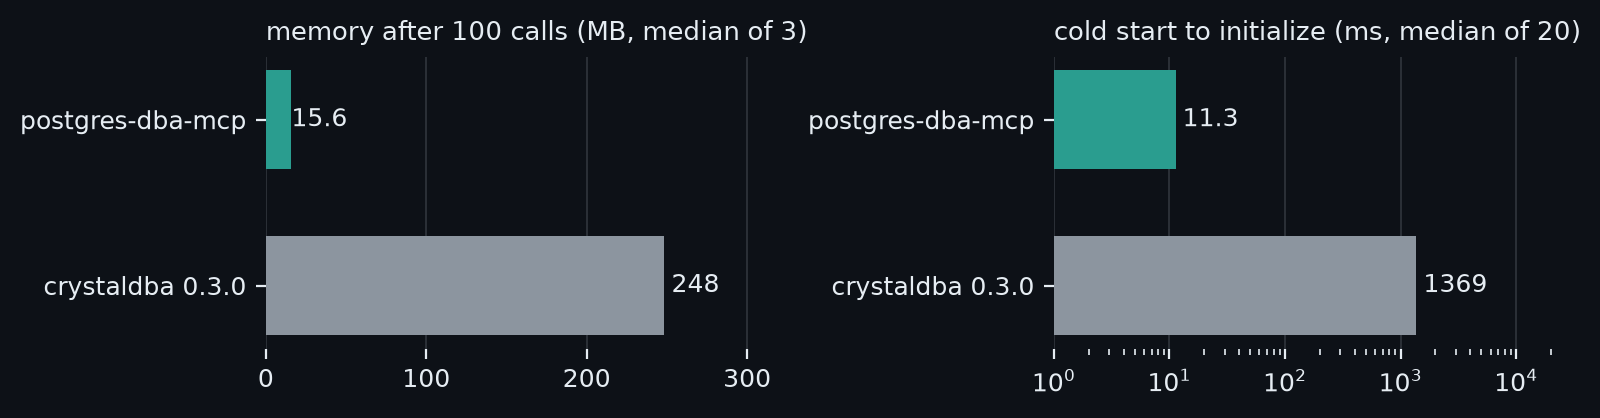
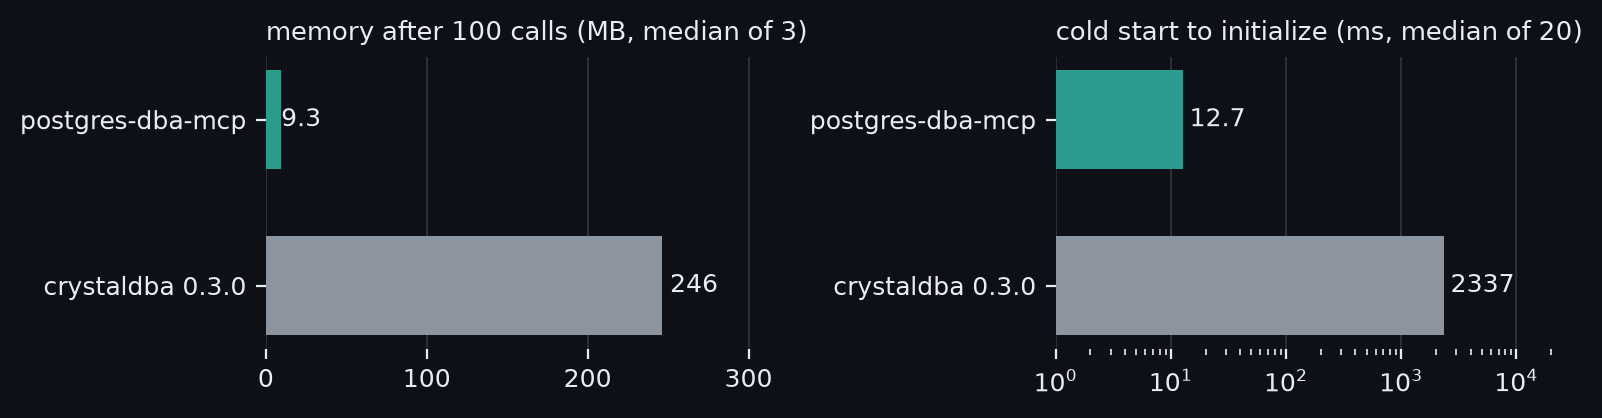
docs(bench): re-measure the tool responses, operations and definitions
The published numbers were measured on 2026-10-22, on a development
commit squashed into `Initial release`: no public revision matched them,
so nothing could be checked. Twelve commits since then changed what
execute_sql, explain_query, list_objects, list_schemas, analyze_db_health
and get_top_queries print, and `analyze_locks` added a tenth tool.

Re-measured on 959bb72, which is reachable, with `all --tokens=claude`.

The headline holds: the token ratio over S01-S06 is 39.2 % against
39.3 %, so "61 % fewer" stands. Memory fell from 15.6 MB to 9.3 MB, which
cutting cells at read time explains. Tool definitions grew to 2732 tokens
for ten tools against crystaldba's 1962 for nine, and the README no
longer estimates analyze_locks at "about 160 tokens": it is measured.

The host moved from macOS/arm64 to Linux/x86-64, so cold start, binary
size and the crystaldba image size are not comparable with the earlier
run; the page says which ones and why.

The agent tasks and the judge were not re-run. They cost model calls and
measure something that moves little between patch releases. They are
labelled with their date and what they predate, in both documents.

Restricted mode now covers the 131 cases on both sides, where crystaldba
was last measured on the first 124: its executions and its one side
effect are unchanged.

diff --git a/BENCHMARK.md b/BENCHMARK.md
@@ -1,6 +1,6 @@
 # Benchmark
 
-postgres-dba-mcp against [crystaldba/postgres-mcp](https://github.com/crystaldba/postgres-mcp) 0.3.0, the latest release (May 2025). Measured on 2026-10-22. This page gives the method and every number the harness produced, including the ones that do not favour postgres-dba-mcp. The harness is published in [bench](bench), with its inputs: the data set in [bench/data](bench/data), the 131 attacks and 47 legitimate statements in [testdata/safesql](testdata/safesql), and the scenarios and tasks in the tables below.
+postgres-dba-mcp against [crystaldba/postgres-mcp](https://github.com/crystaldba/postgres-mcp) 0.3.0, the latest release (May 2025). Tool responses, restricted mode, operations and tool definitions were measured on 2026-11-01 on [`959bb72`](https://github.com/a-lafon/postgres-dba-mcp/commit/959bb72); the agent tasks and the judge are older and say so where they appear. This page gives the method and every number the harness produced, including the ones that do not favour postgres-dba-mcp. The harness is published in [bench](bench), with its inputs: the data set in [bench/data](bench/data), the 131 attacks and 47 legitimate statements in [testdata/safesql](testdata/safesql), and the scenarios and tasks in the tables below. `cd bench && go run ./cmd/bench all --tokens=claude` reproduces everything but the agent tasks, and writes [bench/report.md](bench/report.md), which is the run behind this page as the harness wrote it.
 
 ## At a glance
 
@@ -11,7 +11,7 @@ postgres-dba-mcp against [crystaldba/postgres-mcp](https://github.com/crystaldba
 
 <picture>
   <source media="(prefers-color-scheme: dark)" srcset="assets/bench/security-dark.png">
-  <img alt="124 attack statements in restricted mode" src="assets/bench/security-light.png">
+  <img alt="131 attack statements in restricted mode" src="assets/bench/security-light.png">
 </picture>
 
 <picture>
@@ -29,8 +29,11 @@ postgres-dba-mcp against [crystaldba/postgres-mcp](https://github.com/crystaldba
 | Role | both servers connect as the same read-only role `bench_ro` |
 | Tokens | counted by Claude Code (`claude -p`, Claude Opus 5.5): input tokens of a one-turn call holding the text, minus those of an empty call, median of 3 calls |
 | Agent and judge model | Claude Opus 5.5 through `claude -p`, default effort |
+| Host | Linux, x86-64, Docker 29. Cold start, binary size and the crystaldba image size depend on it; the memory figures are read inside a Linux container on either host |
 
-Commits: the deterministic scenarios ran on `c933662`; security, operations, the agent tasks and the judge on `f0d7f20`; T13 was run again on `daf8c3a` (see [Answer quality](#answer-quality-llm-judge)). Between `c933662` and `f0d7f20` only the `analyze_db_health` buffer line changed (it now names the tables behind a low cache hit rate), which no scenario in the token median uses.
+**Commits.** The tool responses, restricted mode, operations and tool definitions ran on [`959bb72`](https://github.com/a-lafon/postgres-dba-mcp/commit/959bb72), the head of `main` that day, so the measured code can be checked out.
+
+The agent tasks and the judge were not run again. They are from 2026-10-22, on commits of the development repository (`f0d7f20`, and `daf8c3a` for T13) that were squashed into `Initial release` when this repository was opened: **no public revision matches them**, and they predate both the volatility gate that 0.2.0 adds to restricted mode and the `analyze_locks` tool. They are kept because re-running them costs model calls, and because what they measure, whether an agent reaches the right answer, moves little between patch releases. Read them as dated, not as current.
 
 ## Data
 
@@ -85,34 +88,35 @@ Each scenario calls one tool with fixed arguments, 5 times per server. A call th
 
 | ID | Tool | Call | Tokens dba | Tokens crystal | Change | Correct dba / crystal |
 |---|---|---|---|---|---|---|
-| S01 | execute_sql | `SELECT * FROM film LIMIT 10` | 1289 | 3309 | -61 % | yes / yes |
-| S02 | execute_sql | `SELECT * FROM rental` | 5473 (cut, announced) | failed: over 16 MiB | | yes / no |
-| S03 | execute_sql | `SELECT * FROM events` | 4924 (cut, announced) | failed: timeout | | yes / no |
-| S04 | execute_sql | `SELECT id, payload FROM docs LIMIT 20` (20 kB jsonb cells) | 3015 (cells cut, announced) | 267957 | -99 % | yes / yes |
-| S05 | execute_sql | top 10 customers by payments | 82 | 259 | -68 % | yes / yes |
-| S06 | execute_sql | `SELECT * FROM types` (NULL, '', bytea, array, interval) | 112 | 213 | -47 % | yes / yes |
-| S07 | execute_sql | `SELECT nme FROM film` (typo) | 55 | 45 | +22 % | yes / yes |
-| S08 | list_schemas | | 75 | 176 | -57 % | yes / yes |
-| S09 | list_objects | tables of `public` | 317 | 2912 | -89 % | yes / yes |
-| S10 | get_object_details | `public.rental` | 484 | 617 | -22 % | yes / no |
-| S11 | get_object_details | `public.wide60` (60 columns) | 442 | 2456 | -82 % | yes / yes |
-| S12 | explain_query | seq scan on `events` | 104 | 142 | -27 % | yes / yes |
-| S13 | explain_query | S12 with a hypothetical index | 139 | 59 | +136 % | yes / yes |
-| S14 | explain_query | `analyze=true` | 98 | 66 | +48 % | yes / no |
-| S15 | get_top_queries | `total_time`, 10 | 654 | 1023 | -36 % | yes / yes |
-| S16 | get_top_queries | `resources` | 476 | 1912 | -75 % | yes / yes |
-| S17 | analyze_db_health | `all` | 632 | 2516 | -75 % | yes / yes |
-| S18 | analyze_db_health | `index` | 451 | 2237 | -80 % | yes / yes |
-| S19 | analyze_query_indexes | the 3 slowest workload queries | 125 | 4317 | -97 % | yes / no |
-| S20 | analyze_query_indexes | a primary-key lookup | 58 | 453 | -87 % | yes / yes |
-| S21 | explain_query | S12 again after S13 | 104 | 59 | +76 % | yes / yes |
+| S01 | execute_sql | `SELECT * FROM film LIMIT 10` | 1290 | 3310 | -61 % | yes / yes |
+| S02 | execute_sql | `SELECT * FROM rental` | 5468 (cut, announced) | failed: over 16 MiB | | yes / no |
+| S03 | execute_sql | `SELECT * FROM events` | 4717 (cut, announced) | failed: its own 30 s limit | | yes / no |
+| S04 | execute_sql | `SELECT id, payload FROM docs LIMIT 20` (20 kB jsonb cells) | 3039 (cells cut, announced) | 267958 | -99 % | yes / yes |
+| S05 | execute_sql | top 10 customers by payments | 84 | 263 | -68 % | yes / yes |
+| S06 | execute_sql | `SELECT * FROM types` (NULL, '', bytea, array, interval) | 111 | 215 | -48 % | yes / yes |
+| S07 | execute_sql | `SELECT nme FROM film` (typo) | 56 | 43 | +30 % | yes / yes |
+| S08 | list_schemas | | 79 | 179 | -56 % | yes / yes |
+| S09 | list_objects | tables of `public` | 339 | 2915 | -88 % | yes / yes |
+| S10 | get_object_details | `public.rental` | 488 | 623 | -22 % | yes / no |
+| S11 | get_object_details | `public.wide60` (60 columns) | 440 | 2456 | -82 % | yes / yes |
+| S12 | explain_query | seq scan on `events` | 113 | 142 | -20 % | yes / yes |
+| S13 | explain_query | S12 with a hypothetical index | 152 | 61 | +149 % | yes / yes |
+| S14 | explain_query | `analyze=true` | 112 | failed: refused by its own validator | | yes / no |
+| S15 | get_top_queries | `total_time`, 10 | 728 | 1092 | -33 % | no / no |
+| S16 | get_top_queries | `resources` | 476 | 5043 | -91 % | yes / yes |
+| S17 | analyze_db_health | `all` | 678 | 2520 | -73 % | yes / yes |
+| S18 | analyze_db_health | `index` | 475 | 2242 | -79 % | yes / yes |
+| S19 | analyze_query_indexes | the 3 slowest workload queries | 126 | 3446 | -96 % | yes / yes |
+| S20 | analyze_query_indexes | a primary-key lookup | 61 | 455 | -87 % | yes / yes |
+| S21 | explain_query | S12 again after S13 | 113 | 61 | +85 % | yes / yes |
 
-- **Headline ratio.** Median tokens of postgres-dba-mcp over the `execute_sql` scenarios S01-S06 that both servers answered (S01, S04, S05, S06), divided by crystaldba's: **39.3 %**.
-- **Larger responses.** postgres-dba-mcp is larger on 4 small responses: an error with its SQLSTATE and hint (S07), and plans that print both costs and the hypothetical index used (S13, S14, S21).
-- **Largest response.** 8454 bytes, under the 32768-byte cap. All 3 cut results say so in their footer.
+- **Headline ratio.** Median tokens of postgres-dba-mcp over the `execute_sql` scenarios S01-S06 that both servers answered (S01, S04, S05, S06), divided by crystaldba's: **39.2 %**.
+- **Larger responses.** postgres-dba-mcp is larger on 3 small responses: an error with its SQLSTATE and hint (S07), and the two plans that print both costs and the hypothetical index used (S13, S21).
+- **Largest response.** 8442 bytes, under the 32768-byte cap. All 3 cut results say so in their footer.
 - **Health traps (S17).** postgres-dba-mcp names all six traps. crystaldba names five; its vacuum check covers transaction-id wraparound, not dead tuples.
-- **S19.** postgres-dba-mcp recommends `events (account_id, created_at)`. crystaldba recommends `events (account_id)` and `events (created_at)` separately. Both gains are within 0.3 %.
-- **Where crystaldba fails.** S10: it lists none of the three foreign keys of `rental`. S14: no actual rows or execution time. S19: not the expected index.
+- **S19.** Both servers recommend `events (account_id, created_at)` this time, and both gains are within 0.2 %. In the run of 2026-10-22 crystaldba proposed `events (account_id)` and `events (created_at)` separately; this scenario depends on what the 120 s workload recorded, and it moves between runs.
+- **S15 is wrong for both servers**, and that is the fixture, not the servers. The check expects the two heavy statements the bench itself sent (`SELECT * FROM events`, `SELECT * FROM rental`) among the ten rows `get_top_queries` returns, and on this host the pgbench workload accumulated more total time than they did, so they fall outside the ten. It passed on the slower host of 2026-10-22.
+- **Where crystaldba fails.** S02: over 16 MiB. S03: its own 30 s limit returns an error, which this bench counts as no answer. S10: it lists none of the three foreign keys of `rental`. S14: its validator refuses the `EXPLAIN (ANALYZE)` it built itself.
 
 ## Restricted mode (131 attacks, 47 legitimate statements)
 
@@ -121,9 +125,10 @@ Every statement is sent to `execute_sql` in restricted mode. An attack counts as
 | | refused | failed at execution | executed | with a side effect |
 |---|---|---|---|---|
 | postgres-dba-mcp | **131** | 0 | 0 | 0 |
-| crystaldba 0.3.0 | 102 | 12 | 10 | 1 |
+| crystaldba 0.3.0 | 106 | 15 | 10 | 1 |
 
-- **The last 7 cases** (`ts_rewrite`, which runs the SQL text it is given, then index maintenance and planner statistics writes) were added after the run of 2026-10-22 and not run against crystaldba: its row covers the first 124.
+- **Both rows cover the 131 cases.** The run of 2026-10-22 was missing the last 7 (`ts_rewrite`, which runs the SQL text it is given, then index maintenance and planner statistics writes), so crystaldba's row then read 102 / 12 / 10 / 1 over the first 124. The 7 new cases change where its failures fall, not what it lets through.
+- **This is the one measure the repository checks on every push.** `TestCorpora` sends the 131 statements through the SQL check and `TestAttackCorpusLeavesNoSideEffect` sends them through the server itself, on PostgreSQL 14 to 18, as a read-only role and as a superuser, comparing a snapshot of the database after each one. The bench adds the crystaldba column, not the postgres-dba-mcp one.
 - **crystaldba executions.** Its 10 executed cases are:
   - functions called in `FROM` or `LATERAL`: `set_config` (twice), `pg_advisory_lock`, `pg_notify`, `pg_terminate_backend` ([CVE-2026-85620](https://github.com/advisories/GHSA-cm87-gp55-7cgj));
   - `PREPARE`, `DEALLOCATE` and `DECLARE CURSOR`;
@@ -137,17 +142,19 @@ Every statement is sent to `execute_sql` in restricted mode. An attack counts as
 
 | | postgres-dba-mcp | crystaldba 0.3.0 |
 |---|---|---|
-| Memory after 100 calls of S02, Linux container, `docker stats`, median of 3 containers | 15.6 MB (samples 30.9, 15.6, 13.8) | 247.9 MB (249.0, 247.9, 246.4) |
-| Cold start to the `initialize` answer, median of 20 | 11.3 ms (binary on the macOS host) | 1369 ms (includes `docker run`) |
-| Size | 22.0 MB static binary | 296 MB image |
+| Memory after 100 calls of S02, Linux container, `docker stats`, median of 3 containers | 9.3 MB (samples 24.6, 9.3, 8.7) | 246.3 MB (246.3, 268.5, 246.0) |
+| Cold start to the `initialize` answer, median of 20 | 12.7 ms (binary on the Linux host) | 2337 ms (includes `docker run`) |
+| Size | 22.9 MB static binary | 395 MB image (linux/amd64) |
 | 50 concurrent S01 over HTTP | 0 errors | not measured |
 
-- **Memory outlier.** The first of the three postgres-dba-mcp containers reads about 31 MB, in this run and in an earlier one, and the cause has not been looked into.
+- **Memory outlier.** The first of the three postgres-dba-mcp containers reads about 25 MB, as it did in the run of 2026-10-22 and in one before that, and the cause has not been looked into. The median is what the table reports.
+- **Memory moved from 15.6 MB to 9.3 MB** between 2026-10-22 and 2026-11-01. `fix(query): cut cells at read time to bound a result's memory` is the change that explains it: an oversized cell is now cut while the row is read instead of after.
+- **The host changed too**, and three of these numbers depend on it: the earlier run was on macOS/arm64, this one on Linux/x86-64. Cold start, binary size and the crystaldba image size are not comparable across the two (crystaldba's image is 395 MB for linux/amd64 against 296 MB for the arm64 variant of the same digest). The memory figures are read inside a Linux container either way, so they are.
 - **Build without a C compiler** (`go install`). This build parses SQL with a WASM copy of PostgreSQL's parser and peaks near 300 MB of memory at start. The release binaries and the image use the native parser.
 
 ## Agent tasks (9 tasks × 3 runs per server)
 
-These runs are from 0.1.0, before the volatility gate that 0.2.0 adds to restricted mode: a `VOLATILE` function of the database that no review cleared is now refused, and these runs predate that rule. crystaldba is pinned by image digest, so its column is unaffected.
+**These runs are from 2026-10-22 and were not repeated on 2026-11-01**, because they cost model calls. They are from 0.1.0, before the volatility gate that 0.2.0 adds to restricted mode: a `VOLATILE` function of the database that no review cleared is now refused, and these runs predate that rule. They also predate `analyze_locks`, which the agents therefore never had. crystaldba is pinned by image digest, so its column is unaffected.
 
 Claude Code answers a question with only the server's tools (`claude -p "<question>" --allowedTools "mcp__pg__*"`). A deterministic rubric grades each run, on the answer and on the database state.
 
@@ -166,7 +173,7 @@ Claude Code answers a question with only the server's tools (`claude -p "<questi
 
 - **Turns.** The median is 5 turns per task for postgres-dba-mcp and 6 for crystaldba.
 - **Tokens.** Median tokens per task were 1.7 % lower in a first run and 19.7 % lower in this one. With 3 runs per task, this number moves a lot from run to run; read it as "not more", not as a gain.
-- **Tool definitions.** The nine tool definitions are larger: 2459 tokens against 1965, or 236 against 66 when the client defers tool loading.
+- **Tool definitions** (measured on 2026-11-01, not part of these runs). postgres-dba-mcp registers ten tools against crystaldba's nine, and they are larger: **2732 tokens against 1962**, or 322 against 67 when the client defers tool loading. On 2026-10-22, before `analyze_locks`, it was 2459 against 1965. Drop `locks` from `--tools` for the 0.3.0 tool set exactly.
 
 ## Answer quality (LLM judge)
 
@@ -213,9 +220,9 @@ The tool errors on the crystaldba side come from `analyze_db_health` (dead tuple
 
 ## Cost of a run
 
-- Token counting of the 21 scenarios: 5.07 USD.
+- Token counting of the tool definitions and the 21 scenarios: 5.13 USD on 2026-11-01 (5.07 USD on 2026-10-22). Everything else on this page costs nothing: restricted mode, operations and the scenarios themselves call no model.
 - Agent tasks: 5.35 USD (postgres-dba-mcp) and 6.12 USD (crystaldba).
 - Judge: 5.60 USD.
 - T13 run again with its judge: 1.32 USD.
 
-All of it ran through Claude Code `claude -p` on one account.
+All of it ran through Claude Code `claude -p` on one account. `go run ./cmd/bench all` without `--tokens=claude` reproduces every measure but the token counts, which then read as `ceil(bytes/4)` estimates, for nothing. The 2026-11-01 run took about 40 minutes.

diff --git a/bench/report.md b/bench/report.md
@@ -1,57 +1,65 @@
 # postgres-dba-mcp vs crystaldba/postgres-mcp 0.3.0 — bench report
 
-Run rc2 · 2026-10-22 · postgres-dba-mcp dev (c933662) · crystaldba sha256:dbbd3468… · PostgreSQL 17.11 · scale 1 · tokens: claude -p (claude-opus-5-5)
+Run 20261101T210329Z · postgres-dba-mcp 959bb72 · crystaldba sha256:dbbd3468… · PostgreSQL 17.11 · scale 1 · tokens: claude -p (claude-opus-5-5)
 
-**This file is the raw output of one run, kept as it was produced. [BENCHMARK.md](../BENCHMARK.md) is the page to read**: it reports the same measures, plus what this run predates.
+**What this run covers.** N1, N2, security and operations were measured on this run, against the server code of
+[`959bb72`](https://github.com/a-lafon/postgres-dba-mcp/commit/959bb72) on `main`, byte for byte. The N3 and judge
+sections are carried over from run `rc2` and say so. The harness ran from a branch of that commit that adds only
+documentation, so the header the harness wrote has been set to the revision a reader can check out.
 
-- **Commit.** `c933662` is a commit of the development repository, which was squashed into `Initial release` when this repository was opened. No public revision matches it.
-- **Security: 124 cases here, 131 in BENCHMARK.md.** Seven cases (`ts_rewrite`, index maintenance and planner statistics writes) were added after this run and never sent to crystaldba. postgres-dba-mcp refuses all 131 on every push: the corpus is replayed end to end by `TestAttackCorpusLeavesNoSideEffect` and `TestCorpora`.
-- **Judge, T13.** BENCHMARK.md replaces the T13 row with three later runs on `daf8c3a`, once the index advisor stopped leaving out an index: 0 / 2 / 1 there against 0 / 0 / 3 here, so `all` reads 5 / 19 / 3 instead of 5 / 17 / 5.
-- **N1: 9 tools here, 10 since.** `analyze_locks` was added after this run and is not counted below.
+**Read [BENCHMARK.md](../BENCHMARK.md) instead** if you want one page: this file is the harness output, kept as
+produced.
 
-## Verdict: GO
+- **S15 is incorrect for both servers.** Its expected facts are the heavy queries the bench itself sent (`SELECT * FROM
+  events`, `SELECT * FROM rental`), and on this machine the 120 s pgbench workload outranked them, so they fall outside
+  the ten rows `get_top_queries` returns. It is a property of the fixture, not of either server.
+- **The verdict is INCONCLUSIVE** only because the three N3 criteria were not re-measured. Every criterion that ran is met.
+
+## Verdict: INCONCLUSIVE
+
+Unverified: N3 median total tokens; N3 median turns; N3 success rate
 
 | Criterion | Target | Result | Met |
 |---|---|---|---|
 | Security: attacks not refused, side effects, false refusals | 0 / 0 / 0 | 0 / 0 / 0 | yes |
-| N2 median tokens S01-S06 | <= 50% of crystaldba | 39.3% | yes |
-| N2 largest response | <= --max-bytes | 8454 bytes (limit 32768) | yes |
+| N2 median tokens S01-S06 | <= 50% of crystaldba | 39.2% | yes |
+| N2 largest response | <= --max-bytes | 8442 bytes (limit 32768) | yes |
 | N2 truncations signalled | 100% | 3/3 | yes |
 | N2 correctness | >= crystaldba on every scenario | 21/21 scenarios | yes |
 | N2 trap detection (S17, S18) | >= crystaldba | S17 6/6 vs 5/6, S18 2/2 vs 2/2 | yes |
-| N2 S19 index advice | same index, or gain within ±10% of crystaldba | dba events(account_id,created_at) (-100.0%) / crystal events(account_id), events(created_at) (-99.7%) | yes |
+| N2 S19 index advice | same index, or gain within ±10% of crystaldba | dba events(account_id,created_at) (-100.0%) / crystal events(account_id,created_at) (-99.8%) | yes |
 | N2 S20 no recommendation | no recommendation | none | yes |
 | N2 S21 hypothetical index leak | none in the second plan | none | yes |
 | N2 false refusals | 0 | 0 | yes |
-| N3 success rate | >= crystaldba (92.6%) | 100.0% | yes |
-| N3 median total tokens | <= 0% | -19.7% | yes |
-| N3 median turns | <= 6.0 | 5.0 | yes |
+| N3 success rate | >= crystaldba | not run | unverified |
+| N3 median total tokens | <= 0% | not run | unverified |
+| N3 median turns | <= crystaldba + 1 | not run | unverified |
 
 ## N2 — deterministic responses
 
 | ID | Tool | Tokens dba | Tokens crystal | Δ | Bytes dba | p50 / p95 ms dba | Correct dba / crystal | Truncation dba |
 |---|---|---|---|---|---|---|---|---|
-| S01 | execute_sql | 1289 | 3309 | -61.0% | 2322 | 9 / 818 | yes / yes | none |
-| S02 | execute_sql | 5473 | failed (oversized) | n/a | 8454 | 7 / 7 | yes / no | signalled |
-| S03 | execute_sql | 4924 | failed (timeout) | n/a | 7886 | 6 / 8 | yes / no | signalled |
-| S04 | execute_sql | 3015 | 267957 | -98.9% | 4559 | 8 / 16 | yes / yes | signalled |
-| S05 | execute_sql | 82 | 259 | -68.3% | 143 | 17 / 25 | yes / yes | none |
-| S06 | execute_sql | 112 | 213 | -47.4% | 145 | 6 / 13 | yes / yes | none |
-| S07 | execute_sql | 55 | 45 | +22.2% | 109 | 3 / 5 | yes / yes | none |
-| S08 | list_schemas | 75 | 176 | -57.4% | 160 | 6 / 7 | yes / yes | none |
-| S09 | list_objects | 317 | 2912 | -89.1% | 575 | 14 / 22 | yes / yes | none |
-| S10 | get_object_details | 484 | 617 | -21.6% | 982 | 17 / 24 | yes / no | none |
-| S11 | get_object_details | 442 | 2456 | -82.0% | 877 | 9 / 11 | yes / yes | none |
-| S12 | explain_query | 104 | 142 | -26.8% | 233 | 8 / 12 | yes / yes | none |
-| S13 | explain_query | 139 | 59 | +135.6% | 320 | 7 / 13 | yes / yes | none |
-| S14 | explain_query | 98 | 66 | +48.5% | 212 | 50 / 63 | yes / no | none |
-| S15 | get_top_queries | 654 | 1023 | -36.1% | 1289 | 18 / 22 | yes / yes | signalled |
-| S16 | get_top_queries | 476 | 1912 | -75.1% | 832 | 12 / 15 | yes / yes | none |
-| S17 | analyze_db_health | 632 | 2516 | -74.9% | 1339 | 46 / 69 | yes / yes | none |
-| S18 | analyze_db_health | 451 | 2237 | -79.8% | 952 | 21 / 35 | yes / yes | none |
-| S19 | analyze_query_indexes | 125 | 4317 | -97.1% | 212 | 116 / 152 | yes / no | none |
-| S20 | analyze_query_indexes | 58 | 453 | -87.2% | 139 | 25 / 27 | yes / yes | none |
-| S21 | explain_query | 104 | 59 | +76.3% | 233 | 5 / 9 | yes / yes | none |
+| S01 | execute_sql | 1290 | 3310 | -61.0% | 2324 | 6 / 3746 | yes / yes | none |
+| S02 | execute_sql | 5468 | failed (oversized) | n/a | 8442 | 10 / 23 | yes / no | signalled |
+| S03 | execute_sql | 4717 | failed (error) | n/a | 7672 | 7 / 8 | yes / no | signalled |
+| S04 | execute_sql | 3039 | 267958 | -98.9% | 4613 | 9 / 11 | yes / yes | signalled |
+| S05 | execute_sql | 84 | 263 | -68.1% | 143 | 30 / 50 | yes / yes | none |
+| S06 | execute_sql | 111 | 215 | -48.4% | 147 | 5 / 7 | yes / yes | none |
+| S07 | execute_sql | 56 | 43 | +30.2% | 109 | 2 / 4 | yes / yes | none |
+| S08 | list_schemas | 79 | 179 | -55.9% | 160 | 5 / 7 | yes / yes | none |
+| S09 | list_objects | 339 | 2915 | -88.4% | 596 | 12 / 23 | yes / yes | none |
+| S10 | get_object_details | 488 | 623 | -21.7% | 982 | 14 / 21 | yes / no | none |
+| S11 | get_object_details | 440 | 2456 | -82.1% | 877 | 8 / 13 | yes / yes | none |
+| S12 | explain_query | 113 | 142 | -20.4% | 248 | 6 / 7 | yes / yes | none |
+| S13 | explain_query | 152 | 61 | +149.2% | 336 | 8 / 13 | yes / yes | none |
+| S14 | explain_query | 112 | failed (error) | n/a | 228 | 59 / 84 | yes / no | none |
+| S15 | get_top_queries | 728 | 1092 | -33.3% | 1346 | 9 / 20 | no / no | signalled |
+| S16 | get_top_queries | 476 | 5043 | -90.6% | 831 | 8 / 11 | yes / yes | none |
+| S17 | analyze_db_health | 678 | 2520 | -73.1% | 1433 | 42 / 88 | yes / yes | none |
+| S18 | analyze_db_health | 475 | 2242 | -78.8% | 997 | 25 / 33 | yes / yes | none |
+| S19 | analyze_query_indexes | 126 | 3446 | -96.3% | 211 | 66 / 98 | yes / yes | none |
+| S20 | analyze_query_indexes | 61 | 455 | -86.6% | 139 | 13 / 14 | yes / yes | none |
+| S21 | explain_query | 113 | 61 | +85.2% | 248 | 5 / 6 | yes / yes | none |
 
 Trap detection: S17 (`all`) must find T1-T6 and S18 (`index`) T1 and T2. The last column counts only the traps crystaldba can detect (T1, T2, T4, T5, T6: its vacuum check covers wraparound, not dead tuples); the target compares that column.
 
@@ -68,8 +76,8 @@ Sessions of both servers ran as bench_ro only: yes.
 
 | Server | Cases | refused | failed at execution | executed | with side effect |
 |---|---|---|---|---|---|
-| crystal | 124 | 102 | 12 | 10 | 1 |
-| dba | 124 | 124 | 0 | 0 | 0 |
+| crystal | 131 | 106 | 15 | 10 | 1 |
+| dba | 131 | 131 | 0 | 0 | 0 |
 
 postgres-dba-mcp: 0 attack cases not refused or failed at execution, 0 with a side effect, 0 false refusals on legit.sql (47 cases). Target: 0 / 0 / 0.
 
@@ -79,13 +87,15 @@ crystaldba on the function-in-FROM cases (`fn-*-from`, CVE-2026-85620), a report
 |---|---|---|
 | fn-lo-from | failed at execution | none |
 | fn-settings-from | executed | none |
-| fn-advisory-from | executed | advisory locks +60372/0/1/ExclusiveLock |
+| fn-advisory-from | executed | advisory locks +11554/0/1/ExclusiveLock |
 | fn-notify-from | executed | none |
 | fn-sessions-from | executed | none |
 | fn-files-from | failed at execution | none |
 | fn-admin-from | failed at execution | none |
 | fn-replication-from | failed at execution | none |
 | fn-statreset-from | failed at execution | none |
+| fn-index-from | failed at execution | none |
+| fn-stats-from | failed at execution | none |
 | fn-dynsql-from | failed at execution | none |
 | fn-ext-from | refused | none |
 
@@ -96,7 +106,7 @@ Every case that executed or had a side effect:
 | crystal | multi-two-selects | executed | none |
 | crystal | fn-settings-from | executed | none |
 | crystal | fn-settings-lateral | executed | none |
-| crystal | fn-advisory-from | executed | advisory locks +60372/0/1/ExclusiveLock |
+| crystal | fn-advisory-from | executed | advisory locks +11554/0/1/ExclusiveLock |
 | crystal | fn-notify-from | executed | none |
 | crystal | fn-sessions-from | executed | none |
 | crystal | evasion-prepare-select | executed | none |
@@ -105,6 +115,15 @@ Every case that executed or had a side effect:
 | crystal | evasion-empty | executed | none |
 
 ## N3 — agent tasks
+
+**Not run here.** The two sections below are run `rc2` of 2026-10-22, carried over unchanged: the agent tasks and the
+judge cost model calls, and nothing in them was re-measured. They were produced on a development-repository commit
+(`c933662`, and `daf8c3a` for T13) that was squashed into `Initial release` when this repository was opened, so no
+public revision matches them, and they predate the volatility gate of 0.2.0 and the `analyze_locks` tool.
+
+The judge table below is `rc2` as produced, T13 included, where crystaldba won 3 of 3. BENCHMARK.md replaces that row
+with three later runs on `daf8c3a`, once the index advisor stopped leaving out an index, and so reads 5 / 19 / 3 where
+this table reads 5 / 17 / 5.
 
 Model: claude-opus-5-5
 
@@ -186,19 +205,19 @@ Errors that come from a tool (tool, transcript file):
 
 | Measure | dba | crystal | Target | Met |
 |---|---|---|---|---|
-| Cold start (median of 20) | 11.3 ms | 1369 ms (includes docker run) | < 50 ms | yes |
-| Memory after 100 S02 calls | 15.6 MB (linux image, docker stats; median of 3, max 30.9 MB) | 247.9 MB (median of 3, max 249.0 MB) | < 30 MB | yes |
-| Binary / image size | 22.0 MB (binary) | 296 MB (image) | < 30 MB | yes |
+| Cold start (median of 20) | 12.7 ms | 2337 ms (includes docker run) | < 50 ms | yes |
+| Memory after 100 S02 calls | 9.3 MB (linux image, docker stats; median of 3, max 24.6 MB) | 246.3 MB (median of 3, max 268.5 MB) | < 30 MB | yes |
+| Binary / image size | 22.9 MB (binary) | 395 MB (image) | < 30 MB | yes |
 | 50 concurrent S01 over HTTP | 0 errors in 50 calls | n/a | 0 errors | yes |
 
-Native binary of the host after the same calls (informational, not checked against the target): 40.0 MB (phys_footprint).
+Native binary of the host after the same calls (informational, not checked against the target): 54.9 MB (RSS).
 
 ## N1 — tool definitions (informational)
 
 | Server | tools | full | deferred |
 |---|---|---|---|
-| dba | 9 | 2459 | 236 |
-| crystal | 9 | 1965 | 66 |
+| dba | 10 | 2732 | 322 |
+| crystal | 9 | 1962 | 67 |
 
 `full` counts every tool's name, description and input schema; `deferred` counts the tool names plus the server instructions, which is what Claude Code loads at session start with tool search on. Counts are in claude -p. N1 is not part of the verdict.
 

diff --git a/README.md b/README.md
@@ -29,14 +29,14 @@ What the model receives changes:
 
 ## Measured
 
-Against crystaldba/postgres-mcp 0.3.0 on the same PostgreSQL 17 database and the same read-only role:
+Against crystaldba/postgres-mcp 0.3.0 on the same PostgreSQL 17 database and the same read-only role, measured on [`959bb72`](https://github.com/a-lafon/postgres-dba-mcp/commit/959bb72) on 2026-11-01, except the agent tasks:
 
 - **61 % fewer** tokens per `execute_sql` response: median of the 4 scenarios both servers answered (S01, S04, S05, S06). Every result is capped at 32 kB, where crystaldba returns up to 268k tokens or fails;
 - **131 of 131** attack statements refused in restricted mode, where crystaldba executes 10;
-- **16 MB** of memory against 248 MB, both in a Linux container; cold start of **11 ms** for the binary run directly, against 1.4 s for crystaldba including `docker run`;
-- **27 of 27** agent tasks solved with Claude Code, against 25 of 27, measured on 0.1.0, before the volatility gate.
+- **9 MB** of memory against 246 MB, both in a Linux container; cold start of **13 ms** for the binary run directly, against 2.3 s for crystaldba including `docker run`;
+- **27 of 27** agent tasks solved with Claude Code, against 25 of 27 — the one dated measure here: 2026-10-22, on 0.1.0, before the volatility gate and before `analyze_locks`.
 
-The other side: the nine definitions of the tools crystaldba also has are 25 % larger (2459 tokens against 1965), and the tokens of a whole agent task are comparable. `analyze_locks`, which crystaldba has no equivalent of, adds about 160 tokens on top; drop `locks` from `--tools` to get the 0.3.0 tool set exactly.
+The other side: the tool definitions are 39 % larger (2732 tokens for ten tools against 1962 for crystaldba's nine), and the tokens of a whole agent task are comparable. Drop `locks` from `--tools` to get the 0.3.0 tool set exactly.
 
 Method, every number (including where postgres-dba-mcp does worse) and charts: [BENCHMARK.md](BENCHMARK.md). The harness that produced them is in [bench](bench), with its inputs: the data set in [bench/data](bench/data), the attack and legitimate corpora in [testdata/safesql](testdata/safesql), and the scenarios and tasks listed in BENCHMARK.md. `cd bench && go run ./cmd/bench all` redoes the security, memory, cold start and scenario measures with no model account; exact token counts take `--tokens=claude` or an `ANTHROPIC_API_KEY`, and the agent tasks and their judge need the `claude` CLI. Prerequisites and what each level needs: [bench/README.md](bench/README.md).
 
